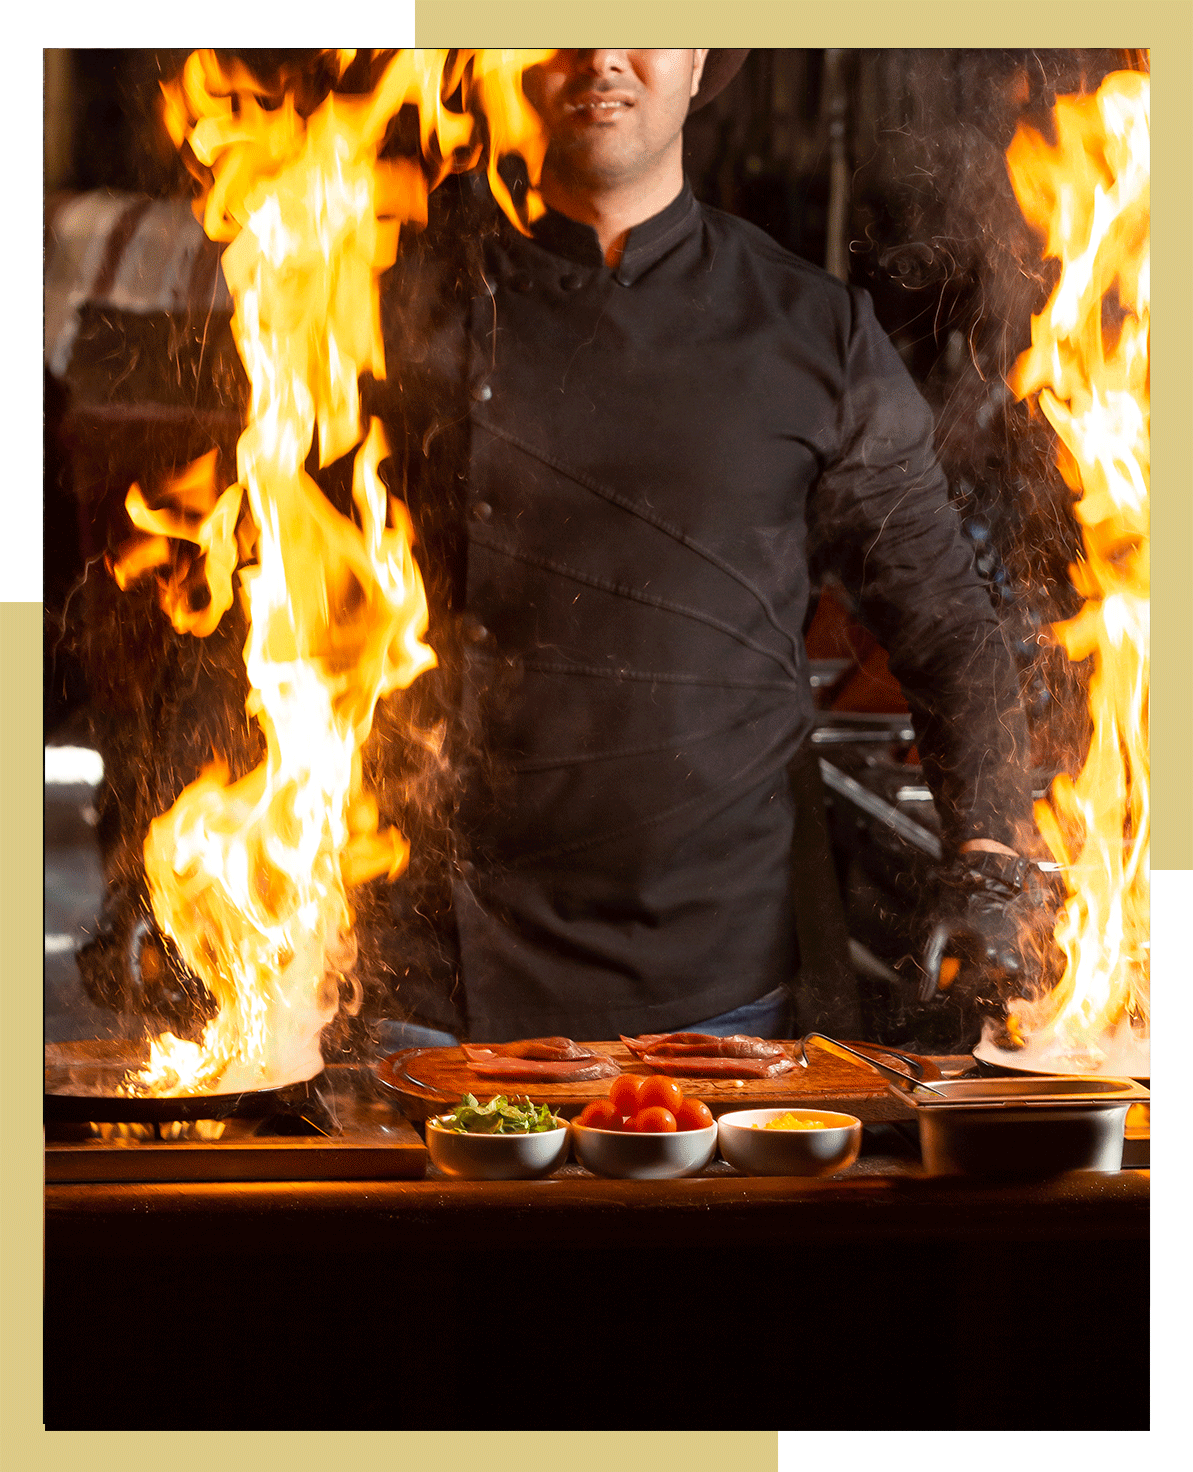
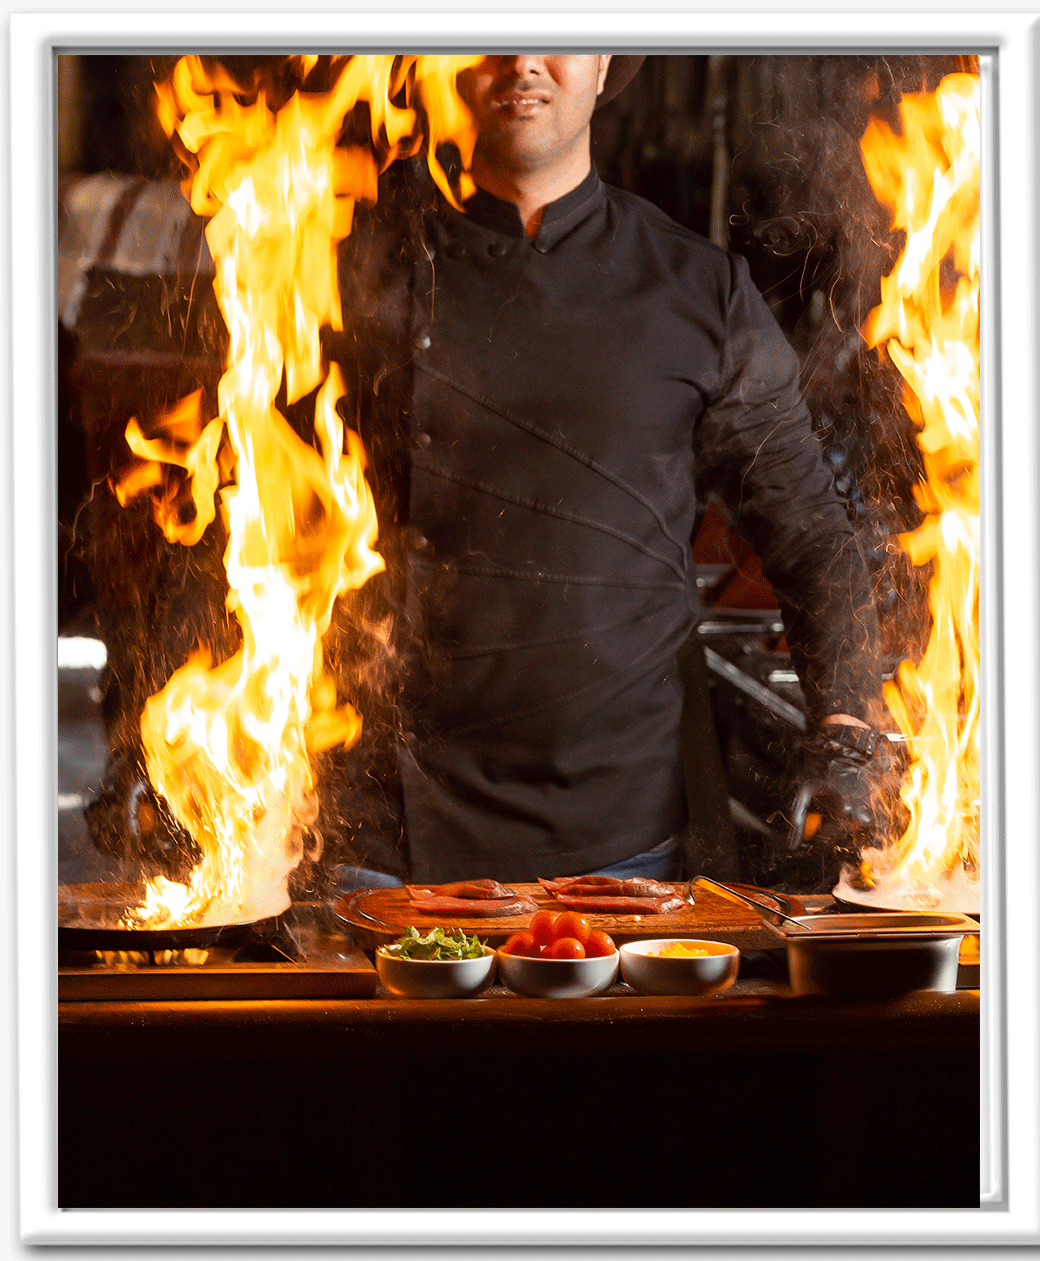
Faycal: add about img

diff --git a/src/constants/images.js b/src/constants/images.js
@@ -1,27 +1,28 @@
-import bg from '../assets/bg.png';
-import chef from '../assets/chef.png';
-import gallery01 from '../assets/gallery01.png';
-import gallery02 from '../assets/gallery02.png';
-import gallery03 from '../assets/gallery03.png';
-import gallery04 from '../assets/gallery04.png';
-import knife from '../assets/knife.png';
-
-import menu from '../assets/menu.png';
-import menu2 from '../assets/menu-2.png';
-import overlaybg from '../assets/overlaybg.png';
-import spoon from '../assets/spoon.svg';
-import welcome from '../assets/welcome.png';
-import findus from '../assets/findus.png';
-import laurels from '../assets/laurels.png';
-import award01 from '../assets/award01.png';
-import award02 from '../assets/award02.png';
-import award03 from '../assets/award03.png';
-import award05 from '../assets/award05.png';
-import sign from '../assets/sign.png';
-import quote from '../assets/quote.png';
-import gericht from '../assets/gericht.png';
+import bg from "../assets/bg.png";
+import chef from "../assets/chef.png";
+import gallery01 from "../assets/gallery01.png";
+import gallery02 from "../assets/gallery02.png";
+import gallery03 from "../assets/gallery03.png";
+import gallery04 from "../assets/gallery04.png";
+import knife from "../assets/knife.png";
+import menu from "../assets/menu.png";
+import menu2 from "../assets/menu-2.png";
+import overlaybg from "../assets/overlaybg.png";
+import spoon from "../assets/spoon.svg";
+import welcome from "../assets/welcome.png";
+import findus from "../assets/findus.png";
+import laurels from "../assets/laurels.png";
+import award01 from "../assets/award01.png";
+import award02 from "../assets/award02.png";
+import award03 from "../assets/award03.png";
+import award05 from "../assets/award05.png";
+import sign from "../assets/sign.png";
+import quote from "../assets/quote.png";
+import gericht from "../assets/gericht.png";
+import aboutBild from "../assets/AboutBild.png";
 
 export default {
+  aboutBild,
   bg,
   chef,
   gallery01,

diff --git a/src/container/AboutUs/AboutUs.jsx b/src/container/AboutUs/AboutUs.jsx
@@ -35,7 +35,7 @@ const AboutUs = () => (
         </button>
       </div>
       <div className="app__wrapper_img">
-          <img src={images.findus} alt="finus_img" className="md:w-5/6" />
+          <img src={images.aboutBild} alt="finus_img" className="md:w-5/6" />
         </div>
     </div>
   </div>
